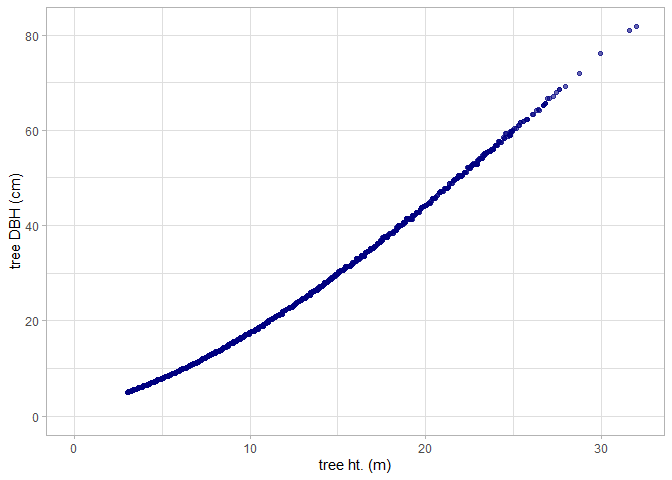
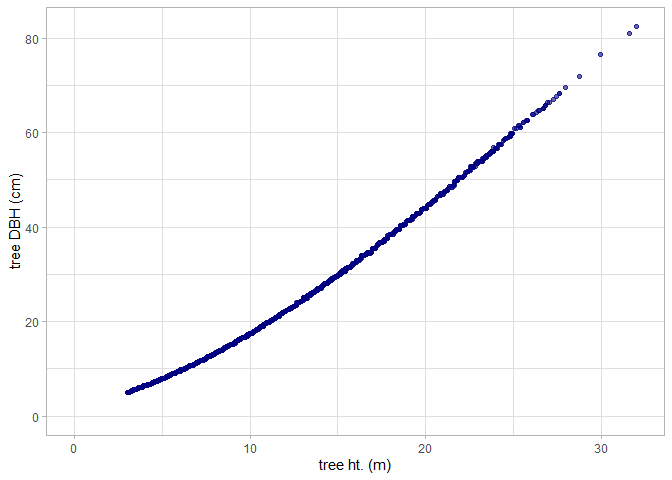
updating readme

diff --git a/README.md b/README.md
@@ -63,7 +63,8 @@ FIA plots are identified using [TreeMap
 a model of FIA plot locations imputed throughout forested areas of the
 conterminous United States at 30 m spatial resolution.
 
-You must first download the FIA data (~3 GB) using `get_treemap()`.
+You must first download the FIA data (~3 GB) using `get_treemap()` which
+only needs to be run the first time you use the `cloud2trees` package.
 
 ``` r
 library(cloud2trees)
@@ -288,15 +289,15 @@ cloud2trees_ans_c$crowns_sf %>% dplyr::glimpse()
 #> $ tree_y                    <dbl> 3813011, 3813011, 3813011, 3813011, 3813011,…
 #> $ crown_area_m2             <dbl> 6.7500, 3.3750, 9.2500, 3.5000, 0.9375, 0.31…
 #> $ geometry                  <GEOMETRY [m]> POLYGON ((481280.5 3813011,..., POL…
-#> $ fia_est_dbh_cm            <dbl> 51.067988, 39.641035, 47.814280, 32.289969, …
-#> $ fia_est_dbh_cm_lower      <dbl> 24.027566, 18.831833, 22.478941, 15.071167, …
-#> $ fia_est_dbh_cm_upper      <dbl> 85.49331, 65.89392, 80.37195, 54.68077, 39.5…
-#> $ dbh_cm                    <dbl> 51.067988, 39.641035, 47.814280, 32.289969, …
+#> $ fia_est_dbh_cm            <dbl> 50.896323, 39.567364, 47.746783, 32.387179, …
+#> $ fia_est_dbh_cm_lower      <dbl> 23.994531, 18.397289, 22.353257, 15.635047, …
+#> $ fia_est_dbh_cm_upper      <dbl> 85.94287, 67.64690, 80.32135, 54.06370, 39.5…
+#> $ dbh_cm                    <dbl> 50.896323, 39.567364, 47.746783, 32.387179, …
 #> $ is_training_data          <lgl> FALSE, FALSE, FALSE, FALSE, FALSE, FALSE, FA…
-#> $ dbh_m                     <dbl> 0.51067988, 0.39641035, 0.47814280, 0.322899…
-#> $ radius_m                  <dbl> 0.25533994, 0.19820518, 0.23907140, 0.161449…
-#> $ basal_area_m2             <dbl> 0.204827079, 0.123418384, 0.179558146, 0.081…
-#> $ basal_area_ft2            <dbl> 2.20475868, 1.32847548, 1.93276389, 0.881452…
+#> $ dbh_m                     <dbl> 0.50896323, 0.39567364, 0.47746783, 0.323871…
+#> $ radius_m                  <dbl> 0.25448161, 0.19783682, 0.23873391, 0.161935…
+#> $ basal_area_m2             <dbl> 0.203452340, 0.122960074, 0.179051558, 0.082…
+#> $ basal_area_ft2            <dbl> 2.18996098, 1.32354224, 1.92731098, 0.886767…
 #> $ ptcld_extracted_dbh_cm    <dbl> NA, NA, NA, NA, NA, NA, NA, NA, NA, NA, NA, …
 #> $ ptcld_predicted_dbh_cm    <dbl> NA, NA, NA, NA, NA, NA, NA, NA, NA, NA, NA, …
 #> $ comp_trees_per_ha         <dbl> 990.0593, 990.0593, 2227.6334, 5445.3261, 54…
@@ -483,19 +484,19 @@ tl_dbh %>% dplyr::glimpse()
 #> Rows: 21
 #> Columns: 16
 #> $ treeID                 <chr> "1", "2", "3", "4", "5", "6", "7", "8", "9", "1…
-#> $ tree_x                 <dbl> 458087.0, 458077.7, 458063.4, 458074.6, 458059.…
-#> $ tree_y                 <dbl> 4450059, 4450080, 4450078, 4450059, 4450069, 44…
-#> $ tree_height_m          <dbl> 2.406320, 4.533074, 1.828790, 25.491535, 3.2426…
-#> $ geometry               <POINT [m]> POINT (458087 4450059), POINT (458077.7 4…
-#> $ fia_est_dbh_cm         <dbl> 4.112722, 7.127610, 3.372527, 62.556074, 5.1951…
-#> $ fia_est_dbh_cm_lower   <dbl> 1.803768, 3.124309, 1.499538, 27.957672, 2.3087…
-#> $ fia_est_dbh_cm_upper   <dbl> 7.081214, 12.317969, 5.851294, 108.689043, 9.15…
-#> $ dbh_cm                 <dbl> 4.112722, 7.127610, 3.372527, 62.556074, 5.1951…
+#> $ tree_x                 <dbl> 458057.5, 458062.3, 458070.1, 458059.7, 458062.…
+#> $ tree_y                 <dbl> 4450069, 4450061, 4450084, 4450085, 4450082, 44…
+#> $ tree_height_m          <dbl> 3.082042, 1.707794, 2.284558, 2.168984, 3.81928…
+#> $ geometry               <POINT [m]> POINT (458057.5 4450069), POINT (458062.3…
+#> $ fia_est_dbh_cm         <dbl> 5.091002, 3.282095, 3.992145, 3.866587, 6.03875…
+#> $ fia_est_dbh_cm_lower   <dbl> 2.220835, 1.445030, 1.775924, 1.719229, 2.66867…
+#> $ fia_est_dbh_cm_upper   <dbl> 8.817390, 5.717000, 7.001861, 6.656257, 10.5034…
+#> $ dbh_cm                 <dbl> 5.091002, 3.282095, 3.992145, 3.866587, 6.03875…
 #> $ is_training_data       <lgl> FALSE, FALSE, FALSE, FALSE, FALSE, FALSE, FALSE…
-#> $ dbh_m                  <dbl> 0.04112722, 0.07127610, 0.03372527, 0.62556074,…
-#> $ radius_m               <dbl> 0.02056361, 0.03563805, 0.01686263, 0.31278037,…
-#> $ basal_area_m2          <dbl> 0.001328460, 0.003990045, 0.000893307, 0.307346…
-#> $ basal_area_ft2         <dbl> 0.014299545, 0.042948840, 0.009615556, 3.308282…
+#> $ dbh_m                  <dbl> 0.05091002, 0.03282095, 0.03992145, 0.03866587,…
+#> $ radius_m               <dbl> 0.02545501, 0.01641047, 0.01996073, 0.01933293,…
+#> $ basal_area_m2          <dbl> 0.0020356190, 0.0008460423, 0.0012517067, 0.001…
+#> $ basal_area_ft2         <dbl> 0.021911403, 0.009106799, 0.013473371, 0.012639…
 #> $ ptcld_extracted_dbh_cm <dbl> NA, NA, NA, NA, NA, NA, NA, NA, NA, NA, NA, NA,…
 #> $ ptcld_predicted_dbh_cm <dbl> NA, NA, NA, NA, NA, NA, NA, NA, NA, NA, NA, NA,…
 ```
